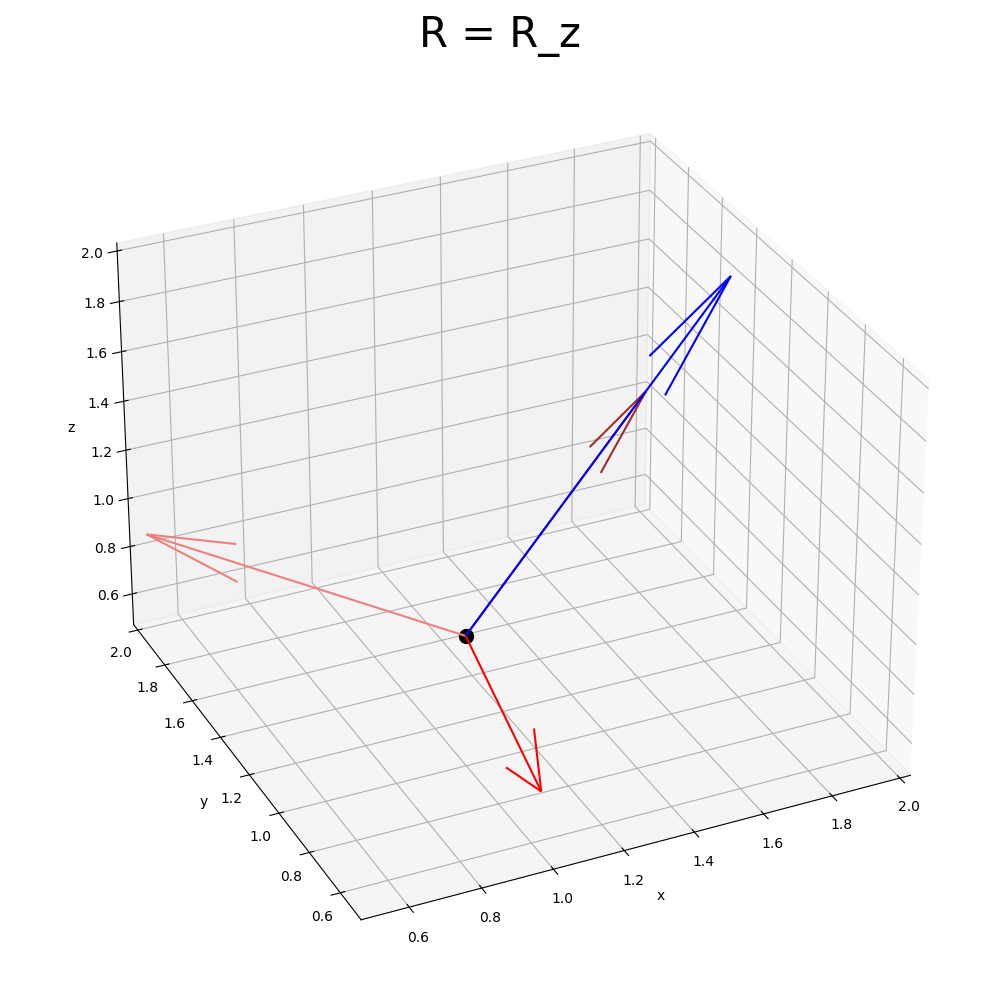
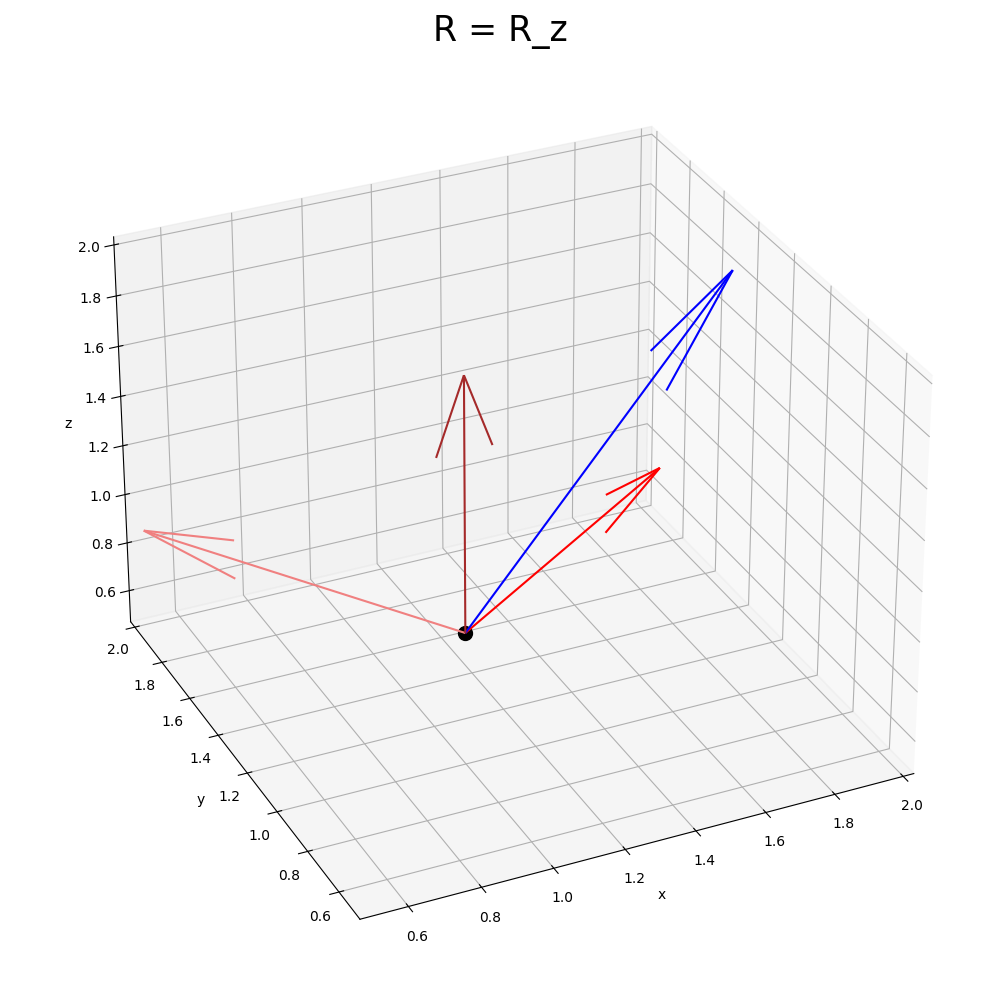
.

diff --git a/Martin/figurer_rapport.py b/Martin/figurer_rapport.py
@@ -357,8 +357,6 @@ if __name__ == "__main__":
     #   PLOTTNING
     #   ---------------------------------------------------------------------
 
-    font_size = 15
-
     """
     fig = plt.figure(figsize=(10, 10))
     ax = plt.axes(projection='3d')
@@ -446,6 +444,8 @@ if __name__ == "__main__":
     plt.show()
 
     """
+
+
     # KOPIA FÖR ATT GÖRA FIGUR
     fig = plt.figure(figsize=(10, 10))
     ax = plt.axes(projection='3d')
@@ -454,39 +454,13 @@ if __name__ == "__main__":
     ax.set_zlim([0.5, 2])
 
     ax.scatter(x_start, y_A, z_A, label='A', color='black', s=100)
-    # ax.scatter(x_start + dx_A_B, y_A + dy_A_B, z_A + dz_A_B, label='B', color='dimgrey', s=100)
-    # ax.scatter(x_A + x_A_C, y_A + y_A_C, z_A + z_A_C, label='C', color='slategrey', s=100)
 
     # Enhetsvektorer
     ax.quiver(x_A, y_A, z_A, 1, 0, 0, color='red')
     ax.quiver(x_A, y_A, z_A, 0, 1, 0, color='lightcoral')
     ax.quiver(x_A, y_A, z_A, 0, 0, 1, color='brown')
 
-    # ax.quiver(x_A + dx_A_B, y_A + dy_A_B, z_A + dz_A_B, enhets_vektorer_B[0, 0], enhets_vektorer_B[1, 0],
-    #           enhets_vektorer_B[2, 0],
-    #           color='red')
-    # ax.quiver(x_A + dx_A_B, y_A + dy_A_B, z_A + dz_A_B, enhets_vektorer_B[0, 1], enhets_vektorer_B[1, 1],
-    #           enhets_vektorer_B[2, 1],
-    #           color='lightcoral')
-    # ax.quiver(x_A + dx_A_B, y_A + dy_A_B, z_A + dz_A_B, enhets_vektorer_B[0, 2], enhets_vektorer_B[1, 2],
-    #           enhets_vektorer_B[2, 2],
-    #           color='brown')
-
-    # ax.quiver(x_A, y_A, z_A, enhets_vektorer_B[0, 0], enhets_vektorer_B[1, 0],
-    #           enhets_vektorer_B[2, 0],
-    #           color='blue')
-    # ax.quiver(x_A, y_A, z_A, enhets_vektorer_B[0, 1], enhets_vektorer_B[1, 1],
-    #           enhets_vektorer_B[2, 1],
-    #           color='mediumslateblue')
-    # ax.quiver(x_A, y_A, z_A, enhets_vektorer_B[0, 2], enhets_vektorer_B[1, 2],
-    #           enhets_vektorer_B[2, 2],
-    #           color='royalblue')
-
     ax.quiver(x_A, y_A, z_A, dx_A_B, dy_A_B, dz_A_B, color='blue')
-    # ax.quiver(x_A + dx_A_B, y_A + dy_A_B, z_A + dz_A_B, (x_A_C - dx_A_B), (y_A_C - dy_A_B), (z_A_C - dz_A_B),
-    #           color='darkviolet',
-    #           label='andra steget, B->C (steg tas utifrån B\'s koordinatsystem')
-    # ax.quiver(x_A, y_A, z_A, x_A_C, y_A_C, z_A_C, color='magenta', label='steg A -> C i A\'s koordinatsystem')
 
     ax.set_xlabel('x')
     ax.set_ylabel('y')
@@ -494,11 +468,15 @@ if __name__ == "__main__":
 
     ax.azim, ax.elev = -115, 30
 
-    plt.title('Ingen rotation', fontsize=font_size*2)
+    plt.title('Ingen rotation', fontsize=font_size_title)
     plt.tight_layout()
     # ax.legend(fontsize=font_size)
     plt.savefig('3d_fig_rotation_0')
     plt.show()
+
+
+
+
 
     fig = plt.figure(figsize=(10, 10))
     ax = plt.axes(projection='3d')
@@ -507,23 +485,6 @@ if __name__ == "__main__":
     ax.set_zlim([0.5, 2])
 
     ax.scatter(x_start, y_A, z_A, label='A', color='black', s=100)
-    # ax.scatter(x_start + dx_A_B, y_A + dy_A_B, z_A + dz_A_B, label='B', color='dimgrey', s=100)
-    # ax.scatter(x_A + x_A_C, y_A + y_A_C, z_A + z_A_C, label='C', color='slategrey', s=100)
-
-    # Enhetsvektorer
-    # ax.quiver(x_A, y_A, z_A, 1, 0, 0, color='red')
-    # ax.quiver(x_A, y_A, z_A, 0, 1, 0, color='lightcoral')
-    # ax.quiver(x_A, y_A, z_A, 0, 0, 1, color='brown')
-
-    # ax.quiver(x_A + dx_A_B, y_A + dy_A_B, z_A + dz_A_B, enhets_vektorer_B[0, 0], enhets_vektorer_B[1, 0],
-    #           enhets_vektorer_B[2, 0],
-    #           color='red')
-    # ax.quiver(x_A + dx_A_B, y_A + dy_A_B, z_A + dz_A_B, enhets_vektorer_B[0, 1], enhets_vektorer_B[1, 1],
-    #           enhets_vektorer_B[2, 1],
-    #           color='lightcoral')
-    # ax.quiver(x_A + dx_A_B, y_A + dy_A_B, z_A + dz_A_B, enhets_vektorer_B[0, 2], enhets_vektorer_B[1, 2],
-    #           enhets_vektorer_B[2, 2],
-    #           color='brown')
 
     ax.quiver(x_A, y_A, z_A, enhets_vektorer_B[0, 0], enhets_vektorer_B[1, 0],
               enhets_vektorer_B[2, 0],
@@ -536,10 +497,6 @@ if __name__ == "__main__":
               color='brown')
 
     ax.quiver(x_A, y_A, z_A, dx_A_B, dy_A_B, dz_A_B, color='blue', label='första steget, A-> B')
-    # ax.quiver(x_A + dx_A_B, y_A + dy_A_B, z_A + dz_A_B, (x_A_C - dx_A_B), (y_A_C - dy_A_B), (z_A_C - dz_A_B),
-    #           color='darkviolet',
-    #           label='andra steget, B->C (steg tas utifrån B\'s koordinatsystem')
-    # ax.quiver(x_A, y_A, z_A, x_A_C, y_A_C, z_A_C, color='magenta', label='steg A -> C i A\'s koordinatsystem')
 
     ax.set_xlabel('x')
     ax.set_ylabel('y')
@@ -547,14 +504,17 @@ if __name__ == "__main__":
 
     ax.azim, ax.elev = -115, 30
 
-    # plt.title('R = R_z R_y', fontsize=font_size*2)
-    plt.title('R = R_z', fontsize=font_size*2)
-    # plt.title('R = R_y', fontsize=font_size*2)
+    plt.title('R = R_z R_y', fontsize=font_size_title)
+    # plt.title('R = R_z', fontsize=font_size_title)
+    # plt.title('R = R_y', fontsize=font_size_title)
+
     plt.tight_layout()
     # ax.legend(fontsize=font_size)
-    # plt.savefig('3d_fig_yz')
-    plt.savefig('3d_fig_z')
+
+    plt.savefig('3d_fig_yz')
+    # plt.savefig('3d_fig_z')
     # plt.savefig('3d_fig_y')
+
     plt.show()
 
 

diff --git a/Martin/upg1.py b/Martin/upg1.py
@@ -451,6 +451,7 @@ class attenueringsdata:
 
         return mu_target
 
+
     def mu_max(self):
         """
         Funktion som tar fram den maximala attenueringskoefficienten i fantomen för en viss energi.
@@ -734,20 +735,19 @@ Bestäm om fotonen ska fortsätta följas eller inte.
 
 
 @jit(nopython=True)
-def bestäm_om_attenuerad(x_round, y_round, z_round, x_size, y_size, z_size, utanför_fantom, slicad_fantom_matris,
-                         foton_energi):
+def bestäm_om_attenuerad(x_round, y_round, z_round, x_size, y_size, z_size, utanför_fantom, slicad_fantom_matris, foton_energi):
     """
     Funktion som bestämmer om en foton ska fortsätta följas eller inte.
     Termen "attenuerad" i koden kan även vara att fotonen rymt från fantommatrisen.
-    :param x_round: voxelposition x
-    :param y_round: voxelposition y
-    :param z_round: voxelposition z
-    :param x_size: storlek matris x
-    :param y_size: storlek matris y
-    :param z_size: storlek matris z
-    :param utanför_fantom: värde som ökar med 1, för att hålla reda på vad som händer när koden körs
-    :param slicad_fantom_matris: fantommatrisen
-    :return: om attenuerad = 1 kommer fotonen att sluta följas
+    :param x_round: Voxelposition x.
+    :param y_round: Voxelposition y.
+    :param z_round: Voxelposition z.
+    :param x_size: Storlek matris x.
+    :param y_size: Storlek matris y.
+    :param z_size: Storlek matris z.
+    :param utanför_fantom: Värde som ökar med 1, för att hålla reda på vad som händer när koden körs.
+    :param slicad_fantom_matris: Fantommatrisen.
+    :return: Om attenuerad = 1 kommer fotonen att sluta följas.
     """
 
     # Om positionen för fotonen är utanför fantommatrisen, indikera att fotonen ska sluta följas.

diff --git a/Martin/Gammalt_eller_inte_relevant/kladd.py b/Martin/Gammalt_eller_inte_relevant/kladd.py
@@ -1,9 +1,21 @@
 import numpy as np
 
-print(4.8 * 10**(-3) / 0.998, 'cm')
-print(4.8 * 10**(-3) / 0.998 * 10**(-2) *10**(-6), 'cm')
+# print(4.8 * 10**(-3) / 0.998, 'cm')
+# print(4.8 * 10**(-3) / 0.998 * 10**(-2) *10**(-6), 'cm')
+#
+# print(10 * 10**3)
+# print(10 * 10**3 / 10**3, 'E3')
+#
+# print(0.96 **1000)
 
-print(10 * 10**3)
-print(10 * 10**3 / 10**3, 'E3')
 
-print(0.96 **1000)
+
+from scipy.stats import sem
+
+#define dataset
+data = [107.2, 113.2, 112.4]
+
+#calculate standard error of the mean
+print(sem(data))
+
+print(np.mean(data))
